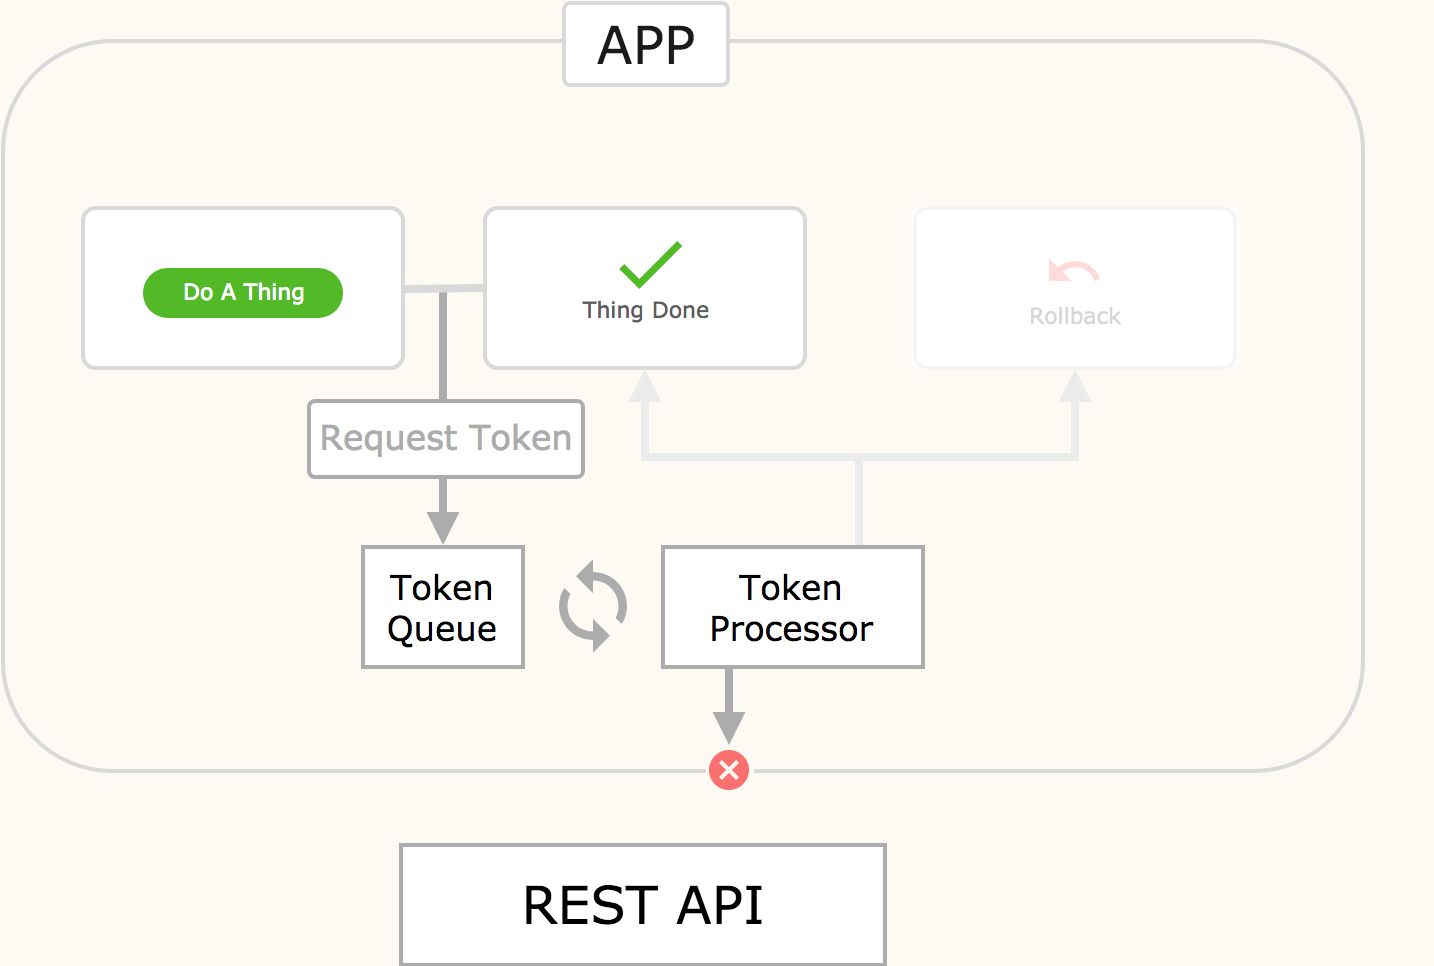
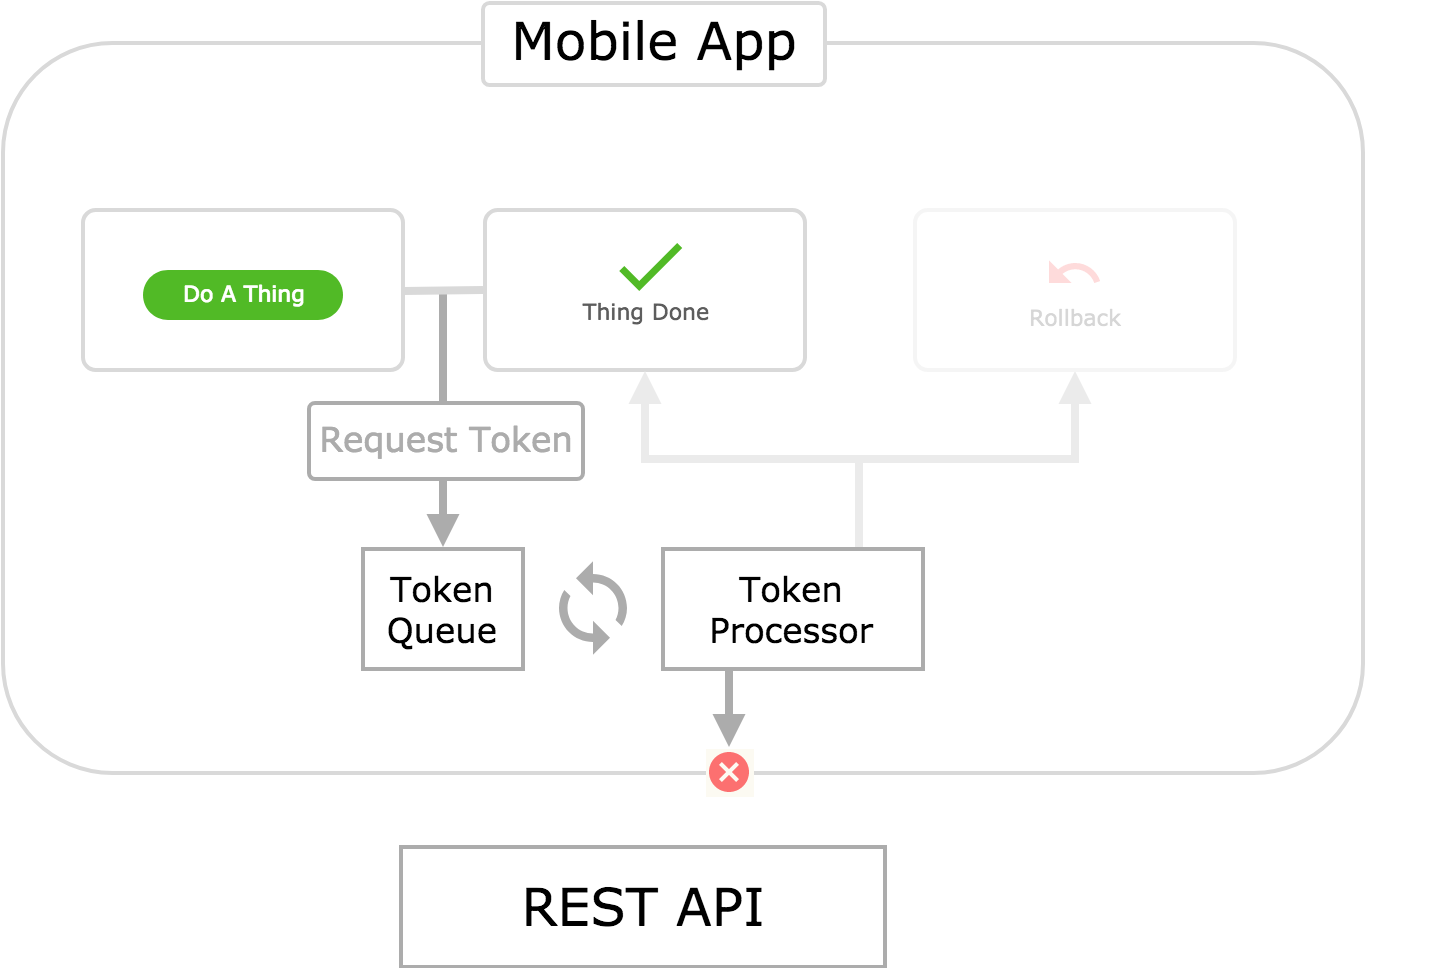
Make image background colors transparent

diff --git a/src/pages/blog/offline-app-architectures.md b/src/pages/blog/offline-app-architectures.md
@@ -183,7 +183,7 @@ So which architecture should you use for implementing offline functionality in a
 * **Does the user need to perform a series of dependent actions while offline?** If this is a requirement, then showing the user a pending screen isn't an option. So, the Request Token Queue with Optimistic Updates architecture is a valid candidate. Of course, this architecture comes with a lot of additional complexity and forces you to handle rollback logic. All of the problems that come with this architecture can make it a less than desirable solution.
 * **Are you working with existing REST based services?** This matters a lot. If you are, then whatever offline architecture you choose must work on top of a REST API model. This means that the event driven architecture isn't an option, and you'll have to choose a request driven model. But if you are able to create new services based on event sourcing, then you should strongly consider the Event Queue with Optimistic Updates architecture. It avoids much of the complexity of rollbacks while still retaining the benefits of optimistic updates when offline.
 
-## Implementation Details
+## How We Did It
 
 Having explained these architectures in the abstract, I'd like to briefly mention how we actually implemented them for our apps at QDivision.
 
